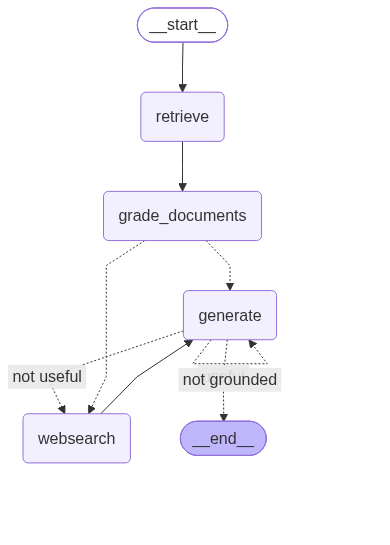
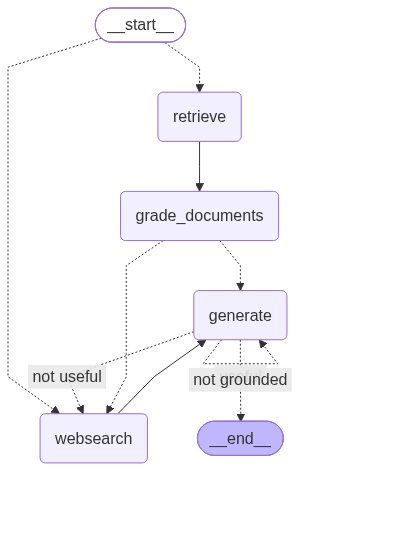
Conditional entry, adaptive rag done and working

diff --git a/graph/graph.py b/graph/graph.py
@@ -8,6 +8,7 @@ from graph.nodes import generate, web_search, grade_documents, retrieve
 from graph.state import GraphState
 from graph.chains.hallucination_grader import hallucination_grader
 from graph.chains.answer_grader import answer_grader
+from graph.chains.router import RouteQuery, question_router_chain
 
 
 def decide_to_generate(state):
@@ -29,7 +30,7 @@ def grade_generation_grounded_in_documents_and_question(state: GraphState) -> st
     score = hallucination_grader.invoke(
         {"documents": documents, "generation": generation}
     )
-    if hallucination_grade := score.binary_score == "yes":  # no hallucination
+    if score.binary_score == "yes":  # no hallucination
         print(" GENERATION IS GROUNDED IN DOCUMENTS")
         print(" GRADING GENERATION VS QUESTION")
         answer_score = answer_grader.invoke(
@@ -46,13 +47,29 @@ def grade_generation_grounded_in_documents_and_question(state: GraphState) -> st
         return "not grounded"
 
 
+def route_question(state: GraphState):
+    print("ROUTING QUESTION")
+    question = state["question"]
+    res: RouteQuery = question_router_chain.invoke({"question": question})
+    if res.datasource == "websearch":
+        print(" ROUTING QUESTION TO WEBSEARCH")
+        return WEBSEARCH
+    elif res.datasource == "vectorstore":
+        print(" ROUTING QUESTION TO VECTORSTORE (RAG)")
+        return RETRIEVE
+
+
 flow = StateGraph(GraphState)
 flow.add_node(RETRIEVE, retrieve)
 flow.add_node(GENERATE, generate)
 flow.add_node(WEBSEARCH, web_search)
 flow.add_node(GRADE_DOCUMENTS, grade_documents)
-flow.set_entry_point(RETRIEVE)
+# flow.set_entry_point(RETRIEVE)
 flow.add_edge(RETRIEVE, GRADE_DOCUMENTS)
+
+flow.set_conditional_entry_point(
+    route_question, {WEBSEARCH: WEBSEARCH, RETRIEVE: RETRIEVE}
+)
 
 flow.add_conditional_edges(
     GRADE_DOCUMENTS, decide_to_generate, {WEBSEARCH: WEBSEARCH, GENERATE: GENERATE}
@@ -63,6 +80,6 @@ flow.add_conditional_edges(
     {"not grounded": GENERATE, "useful": END, "not useful": WEBSEARCH},
 )
 flow.add_edge(WEBSEARCH, GENERATE)
-flow.add_edge(GENERATE, END)
+# flow.add_edge(GENERATE, END) # Not needed since conditional edge handles end, not ideal but can be accounted for
 app = flow.compile()
 app.get_graph().draw_mermaid_png(output_file_path="graph.png")

diff --git a/graph/chains/tests/test_chains.py b/graph/chains/tests/test_chains.py
@@ -59,11 +59,30 @@ def test_hallucination_grader_answer_yes() -> None:
     )
     assert res.binary_score == "yes"
 
+
 def test_hallucination_grader_answer_no() -> None:
     question = "agent memory"
     docs = retriever.invoke(question)
     # generation = generation_chain.invoke({"context": docs, "question": question})
     res: GradeHallucinations = hallucination_grader.invoke(
-        {"documents": docs, "generation": "In order to mow the lawn, you need a lawnmower"}
+        {
+            "documents": docs,
+            "generation": "In order to mow the lawn, you need a lawnmower",
+        }
     )
     assert res.binary_score == "no"
+
+
+# Router
+from graph.chains.router import question_router_chain, RouteQuery
+
+
+def test_router_to_vectorstore() -> None:
+    question = "agent memory"
+    res: RouteQuery = question_router_chain.invoke({"question": question})
+    assert res.datasource == "vectorstore"
+
+def test_router_to_websearch() -> None:
+    question = "How to bake a sponge cake"
+    res: RouteQuery = question_router_chain.invoke({"question": question})
+    assert res.datasource == "websearch"

diff --git a/graph/chains/router.py b/graph/chains/router.py
@@ -1,0 +1,27 @@
+from typing import Literal
+from langchain_core.prompts import ChatPromptTemplate
+from pydantic import BaseModel, Field
+from langchain_openai import ChatOpenAI
+
+
+class RouteQuery(BaseModel):
+    """Route a user to the most relevant datasource"""
+
+    datasource: Literal["vectorstore", "websearch"] = Field(
+        ...,  # This means datasource is required on RouteQuery initialization
+        description="Given a user question, choose to route it to websearch or vectorstore",
+    )
+
+
+llm = ChatOpenAI(model="gpt-4o-mini")
+llm_structured = llm.with_structured_output(RouteQuery)
+
+system = """You are an expert at routing a user question to a vector store or web search.
+The vector store contains documents related to agents, prompt engineering, and adversarial attacks.
+Use 'vectorstore' for questions on these topics, use 'websearch' for anything else."""
+
+route_prompt = ChatPromptTemplate.from_messages(
+    [("system", system), ("human", "{question}")]
+)
+
+question_router_chain = route_prompt | llm_structured

diff --git a/graph/nodes/web_search.py b/graph/nodes/web_search.py
@@ -11,7 +11,7 @@ web_search_tool = TavilySearch(max_results=3)
 def web_search(state: GraphState) -> Dict[str, Any]:
     print("Web search")
     question = state["question"]
-    documents = state["documents"]
+    documents = state.get("documents", None)
     tavily_results = web_search_tool.invoke({"query": question})
 
     joined_tavily_result = "\n".join([res["content"] for res in tavily_results["results"]])
@@ -25,5 +25,5 @@ def web_search(state: GraphState) -> Dict[str, Any]:
 
 if __name__ == "__main__":
     web_search(
-        state={"question": "agent memory", "documents": None}
+        state={"question": "how to bake a cake", "documents": None}
     )  # A scenario where we didn't find any relevant documents at all

diff --git a/main.py b/main.py
@@ -5,4 +5,11 @@ from graph.graph import app
 
 if __name__ == "__main__":
     print("Advanced RAG - CRAG")
-    print(app.invoke(input={"question": "What is agent memory?"}))
+    print(
+        app.invoke(
+            input={
+                "question": """How does Lilian Weng describe long-term memory in LLM agents, 
+                            and how does the 2025 MemoryGraft paper exploit that design? Explain the connection and include the paper’s URL."""
+            }
+        )
+    )
